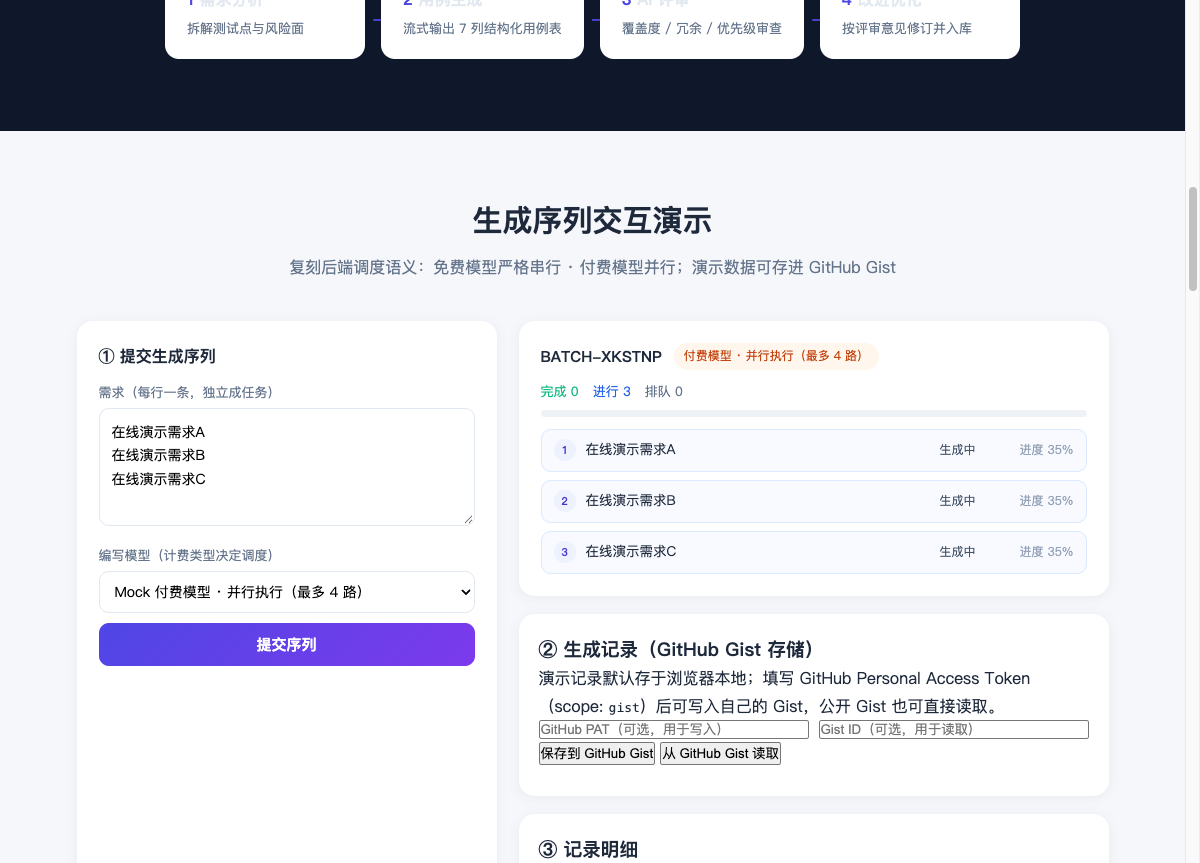
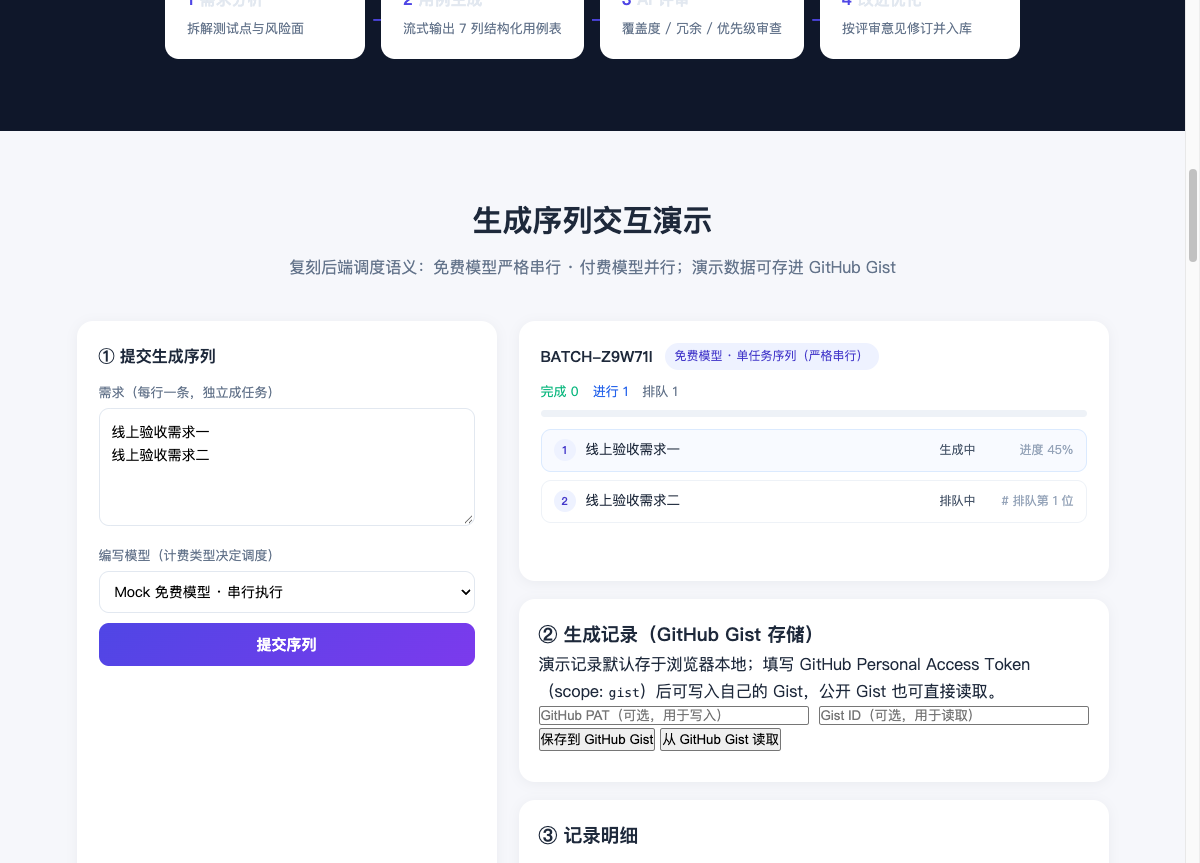
fix(demo): 脚本资源加版本号避免 CDN/浏览器缓存旧版本

diff --git a/demo/index.html b/demo/index.html
@@ -225,6 +225,6 @@ cd ../frontend && npm i && npm run dev</pre>
     <a href="https://github.com/snow-sakura/ai-test-hub/blob/main/docs/TECHNICAL.md">技术文档</a>
   </div>
 </footer>
-<script src="app.js"></script>
+<script src="app.js?v=20261020a"></script>
 </body>
 </html>
